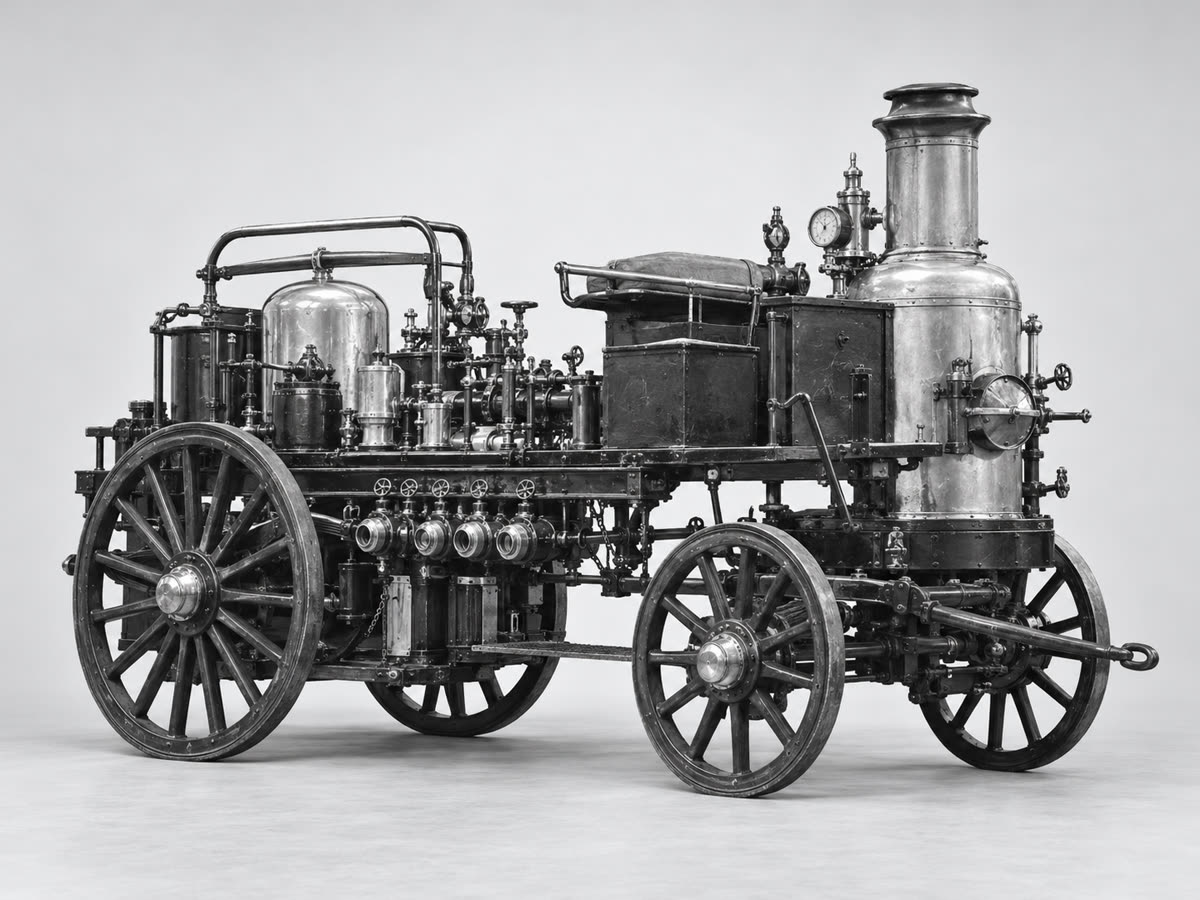
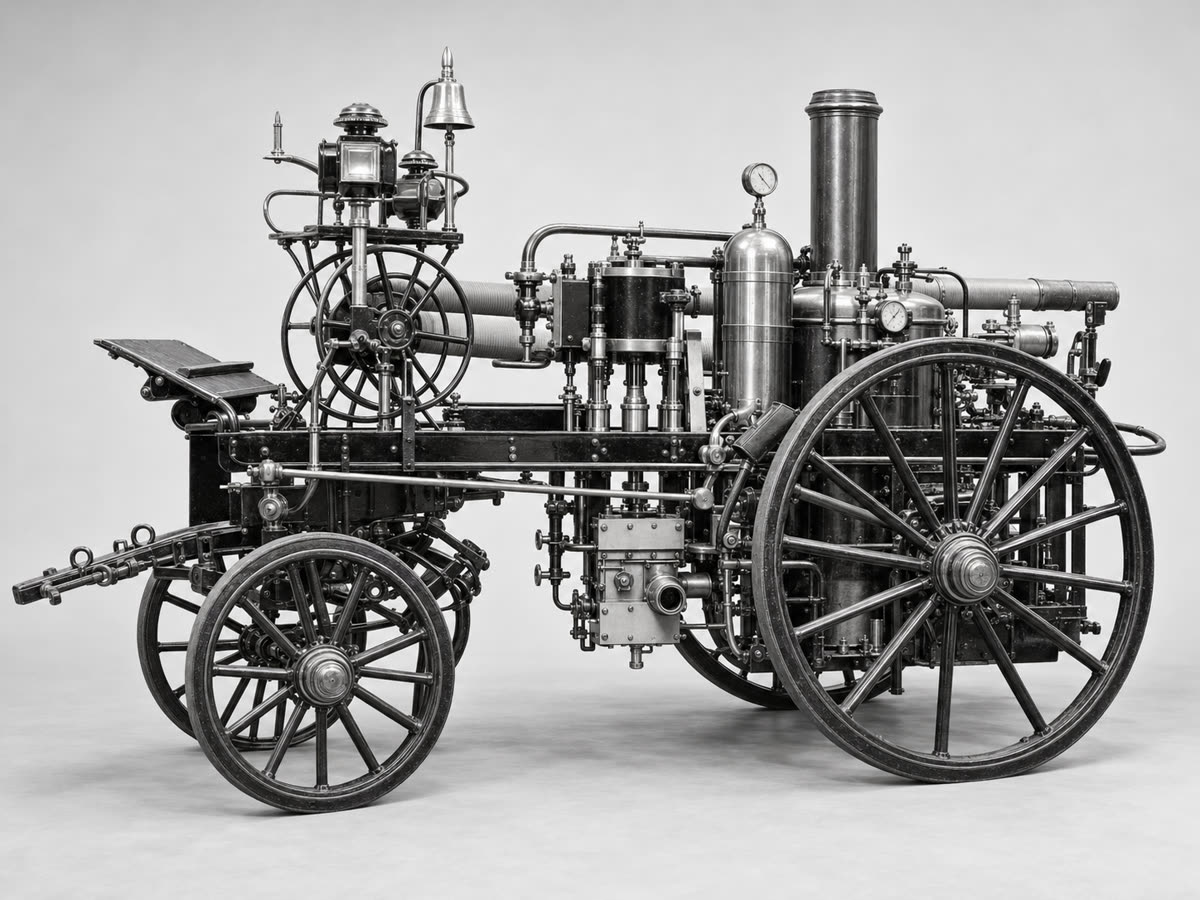
Material Mayor: recreación de la Bomba Chile basada en la foto del fabricante
La recreación anterior tenía la caldera adelante. La nueva se basa en la foto de
catálogo de Usines Beduwé (caldera atrás, asiento del conductor adelante) y mira
hacia la izquierda, como el Gallo, la Hansa Lloyd y la Ford.

Claude-Session: https://claude.ai/code/session_01Vwp39pUFaQs26m6Xw1eQ3W

diff --git a/material-mayor/usines-beduwe-1911/index.html b/material-mayor/usines-beduwe-1911/index.html
@@ -62,7 +62,7 @@
 <!-- Fuente: Historia de la compañía, 16 de mayo de 2020, diapositiva 30. -->
 <p>Bomba a vapor fabricada por Usines Beduwé, bautizada «Bomba Chile» y en servicio desde 1911.</p><dl class="datos-unidad"><div><dt>Marca</dt><dd>Usines Beduwé</dd></div><div><dt>Año</dt><dd>1911</dd></div></dl>
 </div>
-<div class="ficha-foto"><span class="apodo">Bomba Chile</span><img src="../../assets/img/material-usines-beduwe-estudio.jpg" width="1200" height="900" alt="Recreación digital de estudio, en blanco y negro, de una bomba a vapor de la época de la Usines Beduwé" loading="eager"></div>
+<div class="ficha-foto"><span class="apodo">Bomba Chile</span><img src="../../assets/img/material-usines-beduwe-estudio.jpg" width="1200" height="900" alt="Recreación digital de estudio, en blanco y negro, de la bomba a vapor Usines Beduwé, basada en la foto de catálogo del fabricante" loading="eager"></div>
 </div>
 <div class="carrusel">
 <div class="carrusel-pista">

diff --git a/herramientas/contenido/beduwe.html b/herramientas/contenido/beduwe.html
@@ -1,5 +1,5 @@
 <!-- Fuente: Historia de la compañía, 16 de mayo de 2020, diapositiva 30. -->
-<img src="../../assets/img/material-usines-beduwe-estudio.jpg" alt="Recreación digital de estudio, en blanco y negro, de una bomba a vapor de la época de la Usines Beduwé" loading="lazy">
+<img src="../../assets/img/material-usines-beduwe-estudio.jpg" alt="Recreación digital de estudio, en blanco y negro, de la bomba a vapor Usines Beduwé, basada en la foto de catálogo del fabricante" loading="lazy">
 <img src="../../assets/img/material-usines-beduwe-1911.jpg" alt="Bomba Usines Beduwé frente al cuartel en una fotografía histórica" loading="lazy">
 <img src="../../assets/img/material-bomba-vapor-registro-historico.jpg" alt="Voluntarios junto a una bomba a vapor en una fotografía del archivo histórico de la compañía" loading="lazy">
 <p>Bomba a vapor fabricada por Usines Beduwé, bautizada «Bomba Chile» y en servicio desde 1911.</p>
